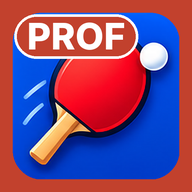
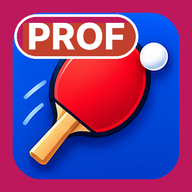
Icône à la couleur de l'activité (charte v1)
Claude-Session: https://claude.ai/code/session_01QNfJk8V2FdZHfoNhsmtJU7

Changed region(s): [[0.0, 0.0, 1.0, 1.0]]

diff --git a/sw.js b/sw.js
@@ -1,6 +1,6 @@
 /* Hors ligne : l'outil est gardé sur l'iPad après la 1re ouverture avec internet.
    Après une modification, augmenter VERSION (ex. ttp-v3 → ttp-v3). */
-const VERSION='tennis-de-table-prof-v16';
+const VERSION='tennis-de-table-prof-v17';
 // Toutes les applis partagent le même stockage (même adresse github.io) : on n'efface QUE les anciennes versions de CETTE appli.
 const MES_CACHES=/^(?:tennis\-de\-table\-prof\-v|ttp\-v)\d+$/;
 
